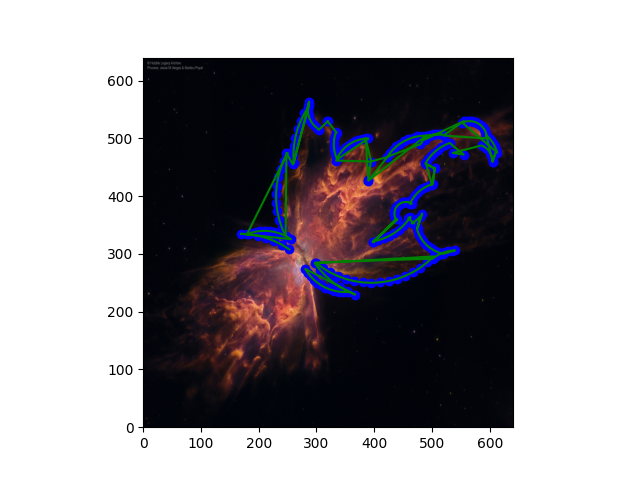
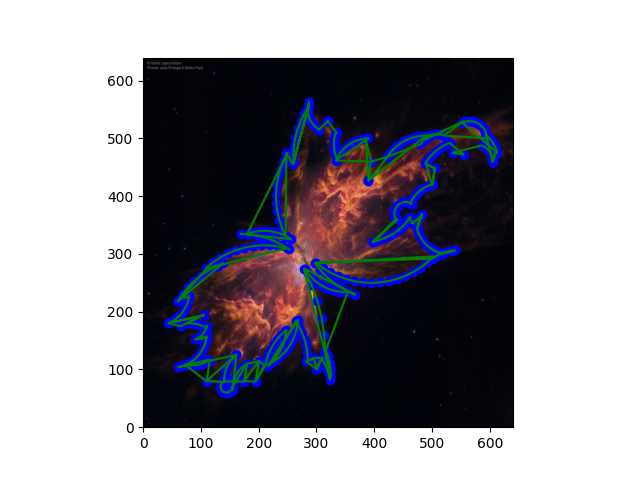
sdfghjk

Changed region(s): [[0.25, 0.5, 0.5625, 0.8438]]

diff --git a/stage_2/slide_3_spline_nebula.py b/stage_2/slide_3_spline_nebula.py
@@ -153,117 +153,117 @@ x = np.append(x, coords[0])
 y = np.append(y, coords[1])
 
 
-# # #левое крыло
-# coords = circle(300, 15, 130, 0, np.pi/6, 0.1)
-# x = np.append(x, coords[0])
-# y = np.append(y, coords[1])
+# #левое крыло
+coords = circle(300, 15, 130, 0, np.pi/6, 0.1)
+x = np.append(x, coords[0])
+y = np.append(y, coords[1])
 
-# coords = circle(120, 205, 88, 0, 5*np.pi/36, 0.1)
-# x = np.append(x, coords[0])
-# y = np.append(y, coords[1])
+coords = circle(120, 205, 88, 0, 5*np.pi/36, 0.1)
+x = np.append(x, coords[0])
+y = np.append(y, coords[1])
 
-# coords = circle(100, 225, 65, np.pi/18, 7*np.pi/36, 0.1)
-# x = np.append(x, coords[0])
-# y = np.append(y, coords[1])
+coords = circle(100, 225, 65, np.pi/18, 7*np.pi/36, 0.1)
+x = np.append(x, coords[0])
+y = np.append(y, coords[1])
 
-# x = np.append(x, [300, 310])
-# y = np.append(y,  [100, 120])
+x = np.append(x, [300, 310])
+y = np.append(y,  [100, 120])
 
-# x = np.append(x, [295, 300])
-# y = np.append(y,  [120, 100])
+x = np.append(x, [295, 301])
+y = np.append(y,  [120, 100])
 
-# x = np.append(x, [282, 295])
-# y = np.append(y,  [114, 120])
+x = np.append(x, [282, 295])
+y = np.append(y,  [114, 119])
 
-# coords = circle(120, 165, 116, 0, 7*np.pi/36, 0.1)
-# x = np.append(x, coords[0])
-# y = np.append(y, coords[1])
+coords = circle(120, 165, 116, 0, 7*np.pi/36, 0.1)
+x = np.append(x, coords[0])
+y = np.append(y, coords[1])
 
-# coords = circle(90, 178, 190, 5*np.pi/3, 2*np.pi, 0.1)
-# x = np.append(x, coords[0])
-# y = np.append(y, coords[1])
+coords = circle(90, 178, 190, 5*np.pi/3, 2*np.pi, 0.1)
+x = np.append(x, coords[0])
+y = np.append(y, coords[1])
 
-# coords = circle(90, 158, 175, 31*np.pi/18, 2*np.pi, 0.1)
-# x = np.append(x, coords[0])
-# y = np.append(y, coords[1])
+coords = circle(90, 158, 175, 31*np.pi/18, 2*np.pi, 0.1)
+x = np.append(x, coords[0])
+y = np.append(y, coords[1])
 
-# coords = circle(100, 310, 90, 13*np.pi/18, 35*np.pi/36, 0.1)
-# x = np.append(x, coords[0])
-# y = np.append(y, coords[1])
+coords = circle(100, 310, 90, 13*np.pi/18, 35*np.pi/36, 0.1)
+x = np.append(x, coords[0])
+y = np.append(y, coords[1])
 
-# x = np.append(x, [195, 210])
-# y = np.append(y,  [80, 107])
+x = np.append(x, [195, 210])
+y = np.append(y,  [80, 107])
 
-# x = np.append(x, [200, 195])
-# y = np.append(y,  [115, 80])
+x = np.append(x, [200, 195])
+y = np.append(y,  [115, 79])
 
-# x = np.append(x, [175, 200])
-# y = np.append(y,  [80, 115])
+x = np.append(x, [175, 200])
+y = np.append(y,  [80, 114])
 
-# x = np.append(x, [180, 175])
-# y = np.append(y,  [110, 80])
+x = np.append(x, [180, 175])
+y = np.append(y,  [110, 79])
 
-# coords = circle(10, 144, 70, 11*np.pi/18, 2*np.pi, 0.1)
-# x = np.append(x, coords[0])
-# y = np.append(y, coords[1])
+coords = circle(10, 144, 70, 11*np.pi/18, 2*np.pi, 0.1)
+x = np.append(x, coords[0])
+y = np.append(y, coords[1])
 
-# coords = circle(50, 205, 67, 2*np.pi/3, 37*np.pi/36, 0.1)
-# x = np.append(x, coords[0])
-# y = np.append(y, coords[1])
+coords = circle(50, 205, 67, 2*np.pi/3, 37*np.pi/36, 0.1)
+x = np.append(x, coords[0])
+y = np.append(y, coords[1])
 
-# coords = circle(60, 200, 80, 13*np.pi/18, 37*np.pi/36, 0.1)
-# x = np.append(x, coords[0])
-# y = np.append(y, coords[1])
+coords = circle(60, 200, 80, 13*np.pi/18, 37*np.pi/36, 0.1)
+x = np.append(x, coords[0])
+y = np.append(y, coords[1])
 
-# x = np.append(x, [110, 160])
-# y = np.append(y,  [80, 125])
+x = np.append(x, [110, 160])
+y = np.append(y,  [80, 125])
 
-# x = np.append(x, [115, 110])
-# y = np.append(y,  [115, 80])
+x = np.append(x, [115, 110])
+y = np.append(y,  [115, 79])
 
-# coords = circle(50, 85, 157, 17*np.pi/12, 31*np.pi/18, 0.1)
-# x = np.append(x, coords[0])
-# y = np.append(y, coords[1])
+coords = circle(50, 85, 157, 17*np.pi/12, 31*np.pi/18, 0.1)
+x = np.append(x, coords[0])
+y = np.append(y, coords[1])
 
-# coords = circle(60, 50, 163, 14*np.pi/9, 71*np.pi/36, 0.1)
-# x = np.append(x, coords[0])
-# y = np.append(y, coords[1])
+coords = circle(60, 50, 163, 14*np.pi/9, 71*np.pi/36, 0.1)
+x = np.append(x, coords[0])
+y = np.append(y, coords[1])
 
-# x = np.append(x, [90, 110])
-# y = np.append(y,  [152, 155])
+x = np.append(x, [90, 110])
+y = np.append(y,  [152, 155])
 
-# coords = circle(30, 80, 180, 59*np.pi/36, 71*np.pi/36, 0.1)
-# x = np.append(x, coords[0])
-# y = np.append(y, coords[1])
+coords = circle(30, 80, 180, 59*np.pi/36, 71*np.pi/36, 0.1)
+x = np.append(x, coords[0])
+y = np.append(y, coords[1])
 
-# coords = circle(60, 80, 120, np.pi/3, 5*np.pi/9, 0.1)
-# x = np.append(x, coords[0])
-# y = np.append(y, coords[1])
+coords = circle(60, 80, 120, np.pi/3, 5*np.pi/9, 0.1)
+x = np.append(x, coords[0])
+y = np.append(y, coords[1])
 
-# x = np.append(x, [105, 65])
-# y = np.append(y,  [195, 175])
+x = np.append(x, [105, 65])
+y = np.append(y,  [195, 175])
 
-# x = np.append(x, [43, 105])
-# y = np.append(y,  [180, 195])
+x = np.append(x, [43, 105])
+y = np.append(y,  [180, 194])
 
-# coords = circle(60, 20, 235, 59*np.pi/36, 71*np.pi/36, 0.1)
-# x = np.append(x, coords[0])
-# y = np.append(y, coords[1])
+coords = circle(60, 20, 235, 59*np.pi/36, 71*np.pi/36, 0.1)
+x = np.append(x, coords[0])
+y = np.append(y, coords[1])
 
-# coords = circle(20, 75, 205, 4*np.pi/9, 7*np.pi/9, 0.1)
-# x = np.append(x, coords[0])
-# y = np.append(y, coords[1])
+coords = circle(20, 75, 205, 4*np.pi/9, 7*np.pi/9, 0.1)
+x = np.append(x, coords[0])
+y = np.append(y, coords[1])
 
-# coords = circle(150, 190, 143, 11*np.pi/18, 31*np.pi/36, 0.1)
-# x = np.append(x, coords[0])
-# y = np.append(y, coords[1])
+coords = circle(150, 190, 143, 11*np.pi/18, 31*np.pi/36, 0.1)
+x = np.append(x, coords[0])
+y = np.append(y, coords[1])
 
-# x = np.append(x, [110, 130])
-# y = np.append(y,  [275, 280])
+x = np.append(x, [110, 130])
+y = np.append(y,  [275, 280])
 
-# coords = circle(150, 210, 165, 5*np.pi/12, 3*np.pi/4, 0.1)
-# x = np.append(x, coords[0])
-# y = np.append(y, coords[1])
+coords = circle(150, 210, 165, 5*np.pi/12, 3*np.pi/4, 0.1)
+x = np.append(x, coords[0])
+y = np.append(y, coords[1])
 
 spline_coords, figure_spline_part = interpolate.splprep([x, y], s=0)
 spline_curve = interpolate.splev(figure_spline_part, spline_coords)
